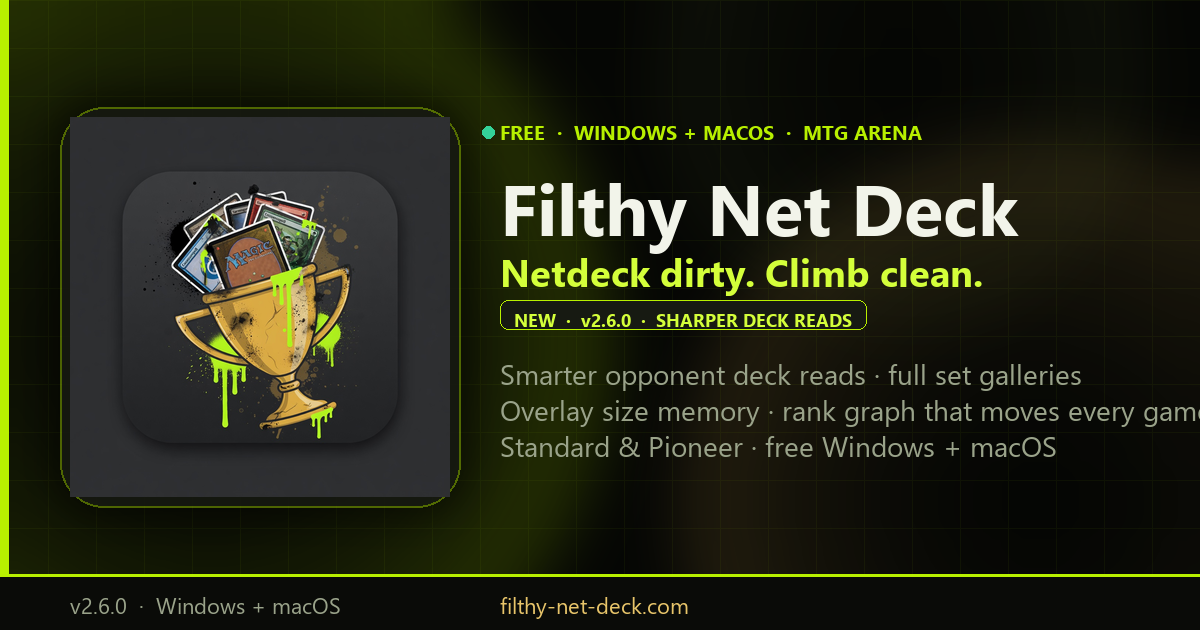
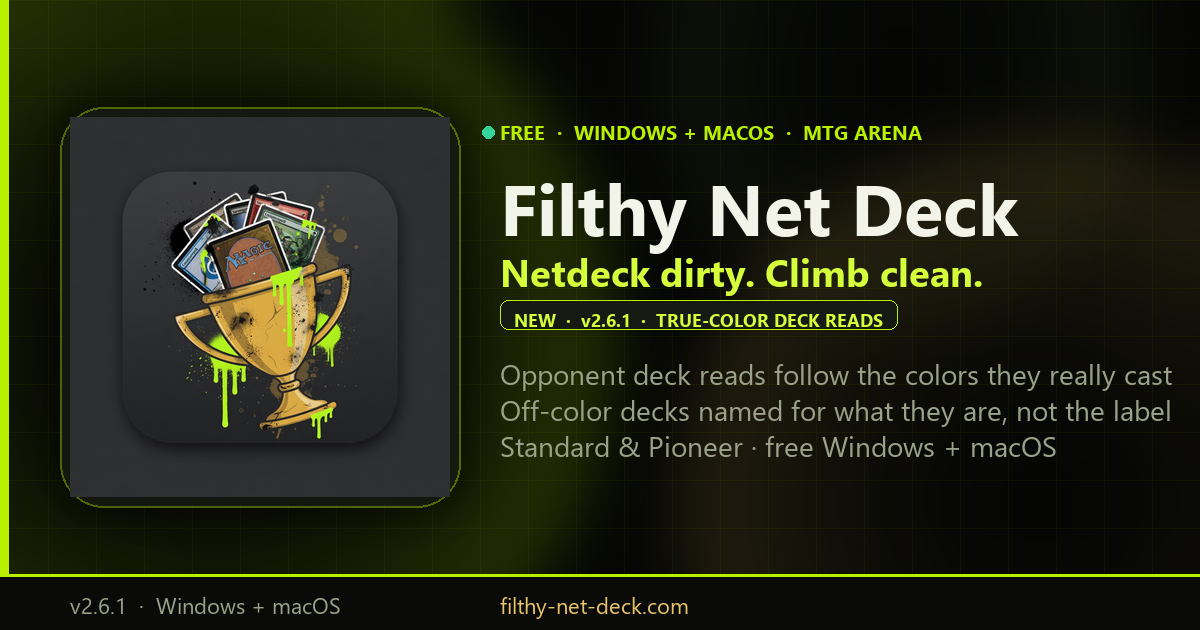
chore(og): regenerate share card for v2.6.1
Badge, feature lines and footer version follow the release.

Changed region(s): [[0.4008, 0.573, 1.0, 0.6937], [0.555, 0.4825, 0.74, 0.5429]]

diff --git a/website/assets/_gen_og.py b/website/assets/_gen_og.py
@@ -130,7 +130,7 @@ def main() -> None:
     draw.text((tx, ty + 128), "Netdeck dirty. Climb clean.", font=tag_font, fill=ACID_BRIGHT)
 
     # Feature callout badge — bump with each marketed release
-    badge_text = f"NEW  {mid}  v2.6.0  {mid}  SHARPER DECK READS"
+    badge_text = f"NEW  {mid}  v2.6.1  {mid}  TRUE-COLOR DECK READS"
     badge_pad_x, badge_pad_y = 14, 8
     bb = draw.textbbox((0, 0), badge_text, font=badge_font)
     bw, bh = bb[2] - bb[0], bb[3] - bb[1]
@@ -145,8 +145,8 @@ def main() -> None:
     draw.text((bx + badge_pad_x, by + badge_pad_y - 1), badge_text, font=badge_font, fill=ACID_BRIGHT)
 
     lines = [
-        "Smarter opponent deck reads · full set galleries",
-        "Overlay size memory · rank graph that moves every game",
+        "Opponent deck reads follow the colors they really cast",
+        "Off-color decks named for what they are, not the label",
         "Standard & Pioneer · free Windows + macOS",
     ]
     dy = ty + 236
@@ -157,7 +157,7 @@ def main() -> None:
     # Bottom bar
     draw.rectangle([0, H - 56, W, H], fill=(10, 11, 8, 245))
     draw.rectangle([0, H - 56, W, H - 54], fill=(*ACID, 200))
-    draw.text((70, H - 40), "v2.6.0  ·  Windows + macOS", font=small_font, fill=MUTED)
+    draw.text((70, H - 40), "v2.6.1  ·  Windows + macOS", font=small_font, fill=MUTED)
     draw.text((tx, H - 40), "filthy-net-deck.com", font=small_font, fill=GOLD_LIGHT)
 
     final = img.convert("RGB")
